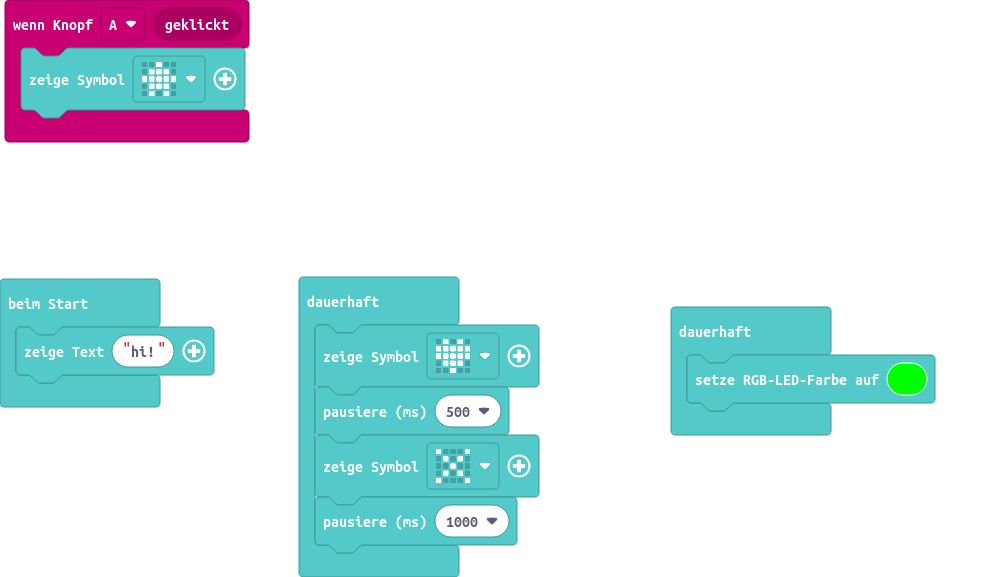
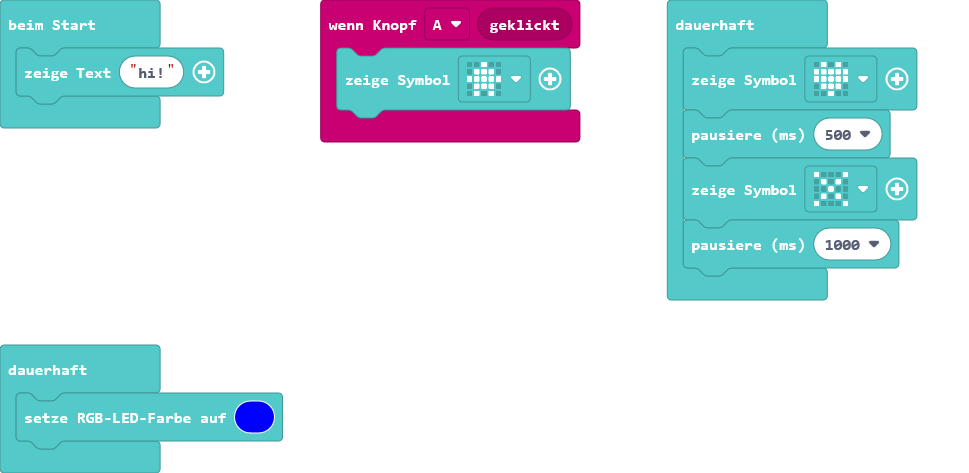
RGB auf blau geändert

diff --git a/main.ts b/main.ts
@@ -9,5 +9,5 @@ basic.forever(function () {
     basic.pause(1000)
 })
 basic.forever(function () {
-    basic.setLedColor(0x00ff00)
+    basic.setLedColor(0x0000ff)
 })
